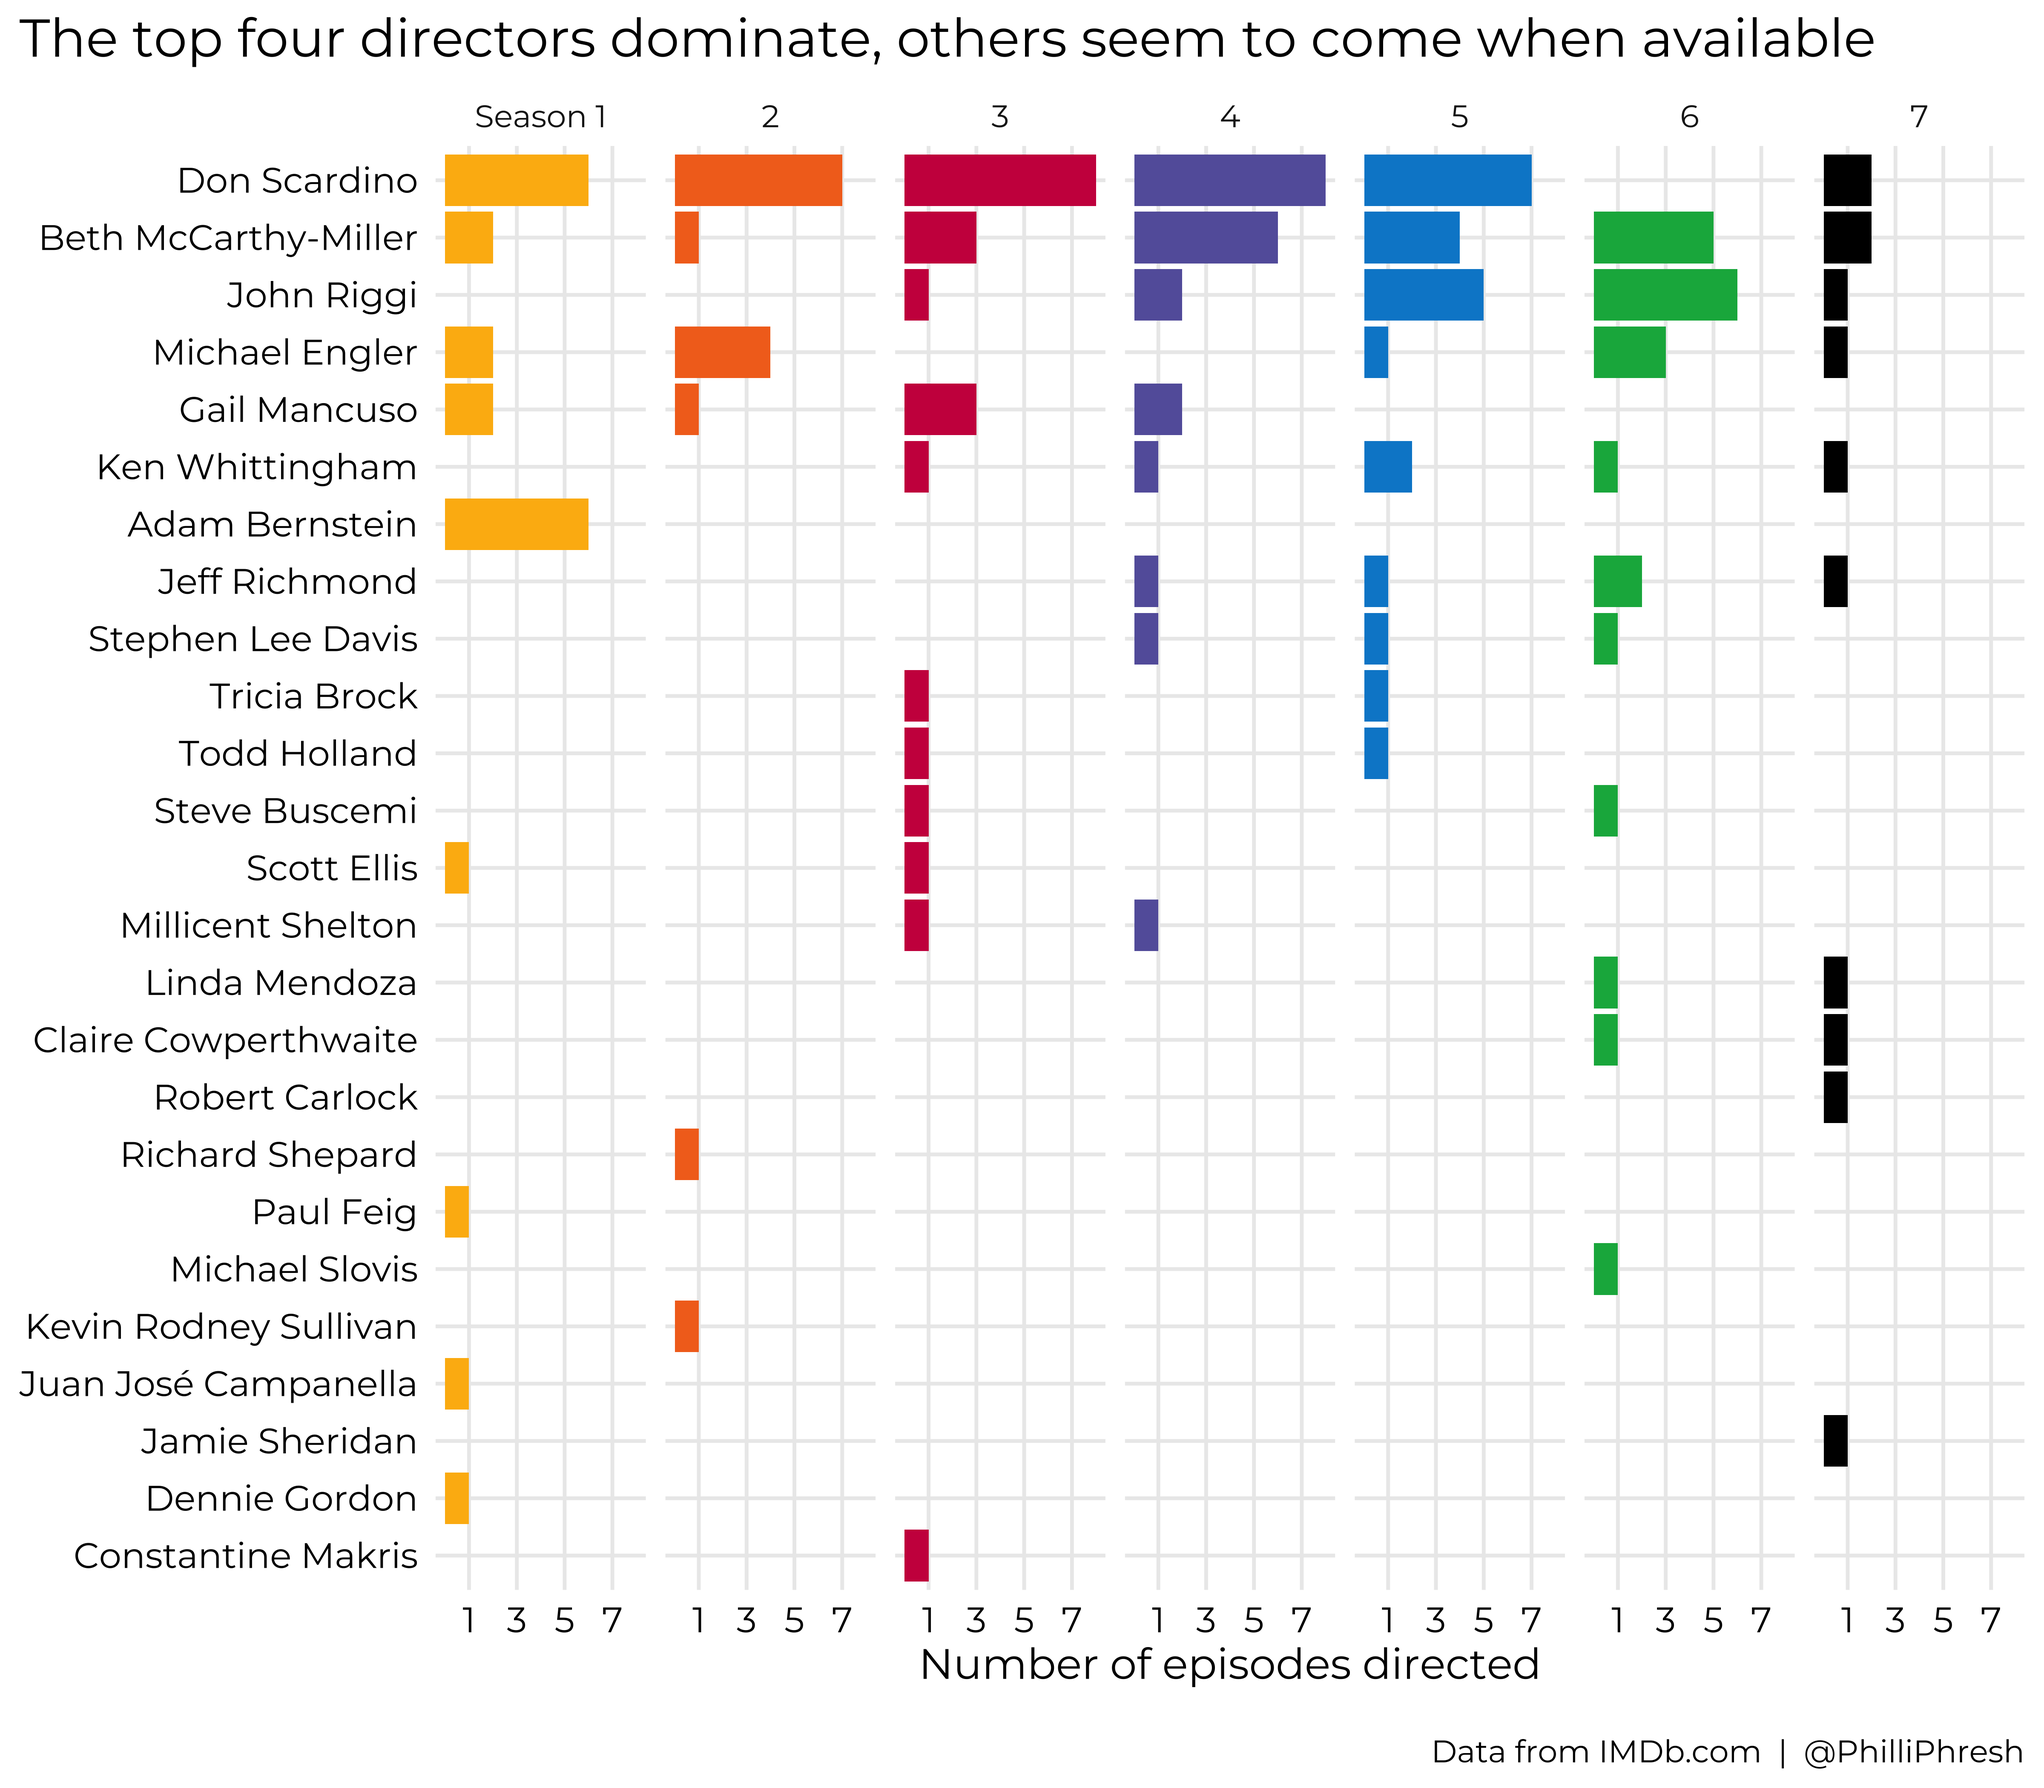
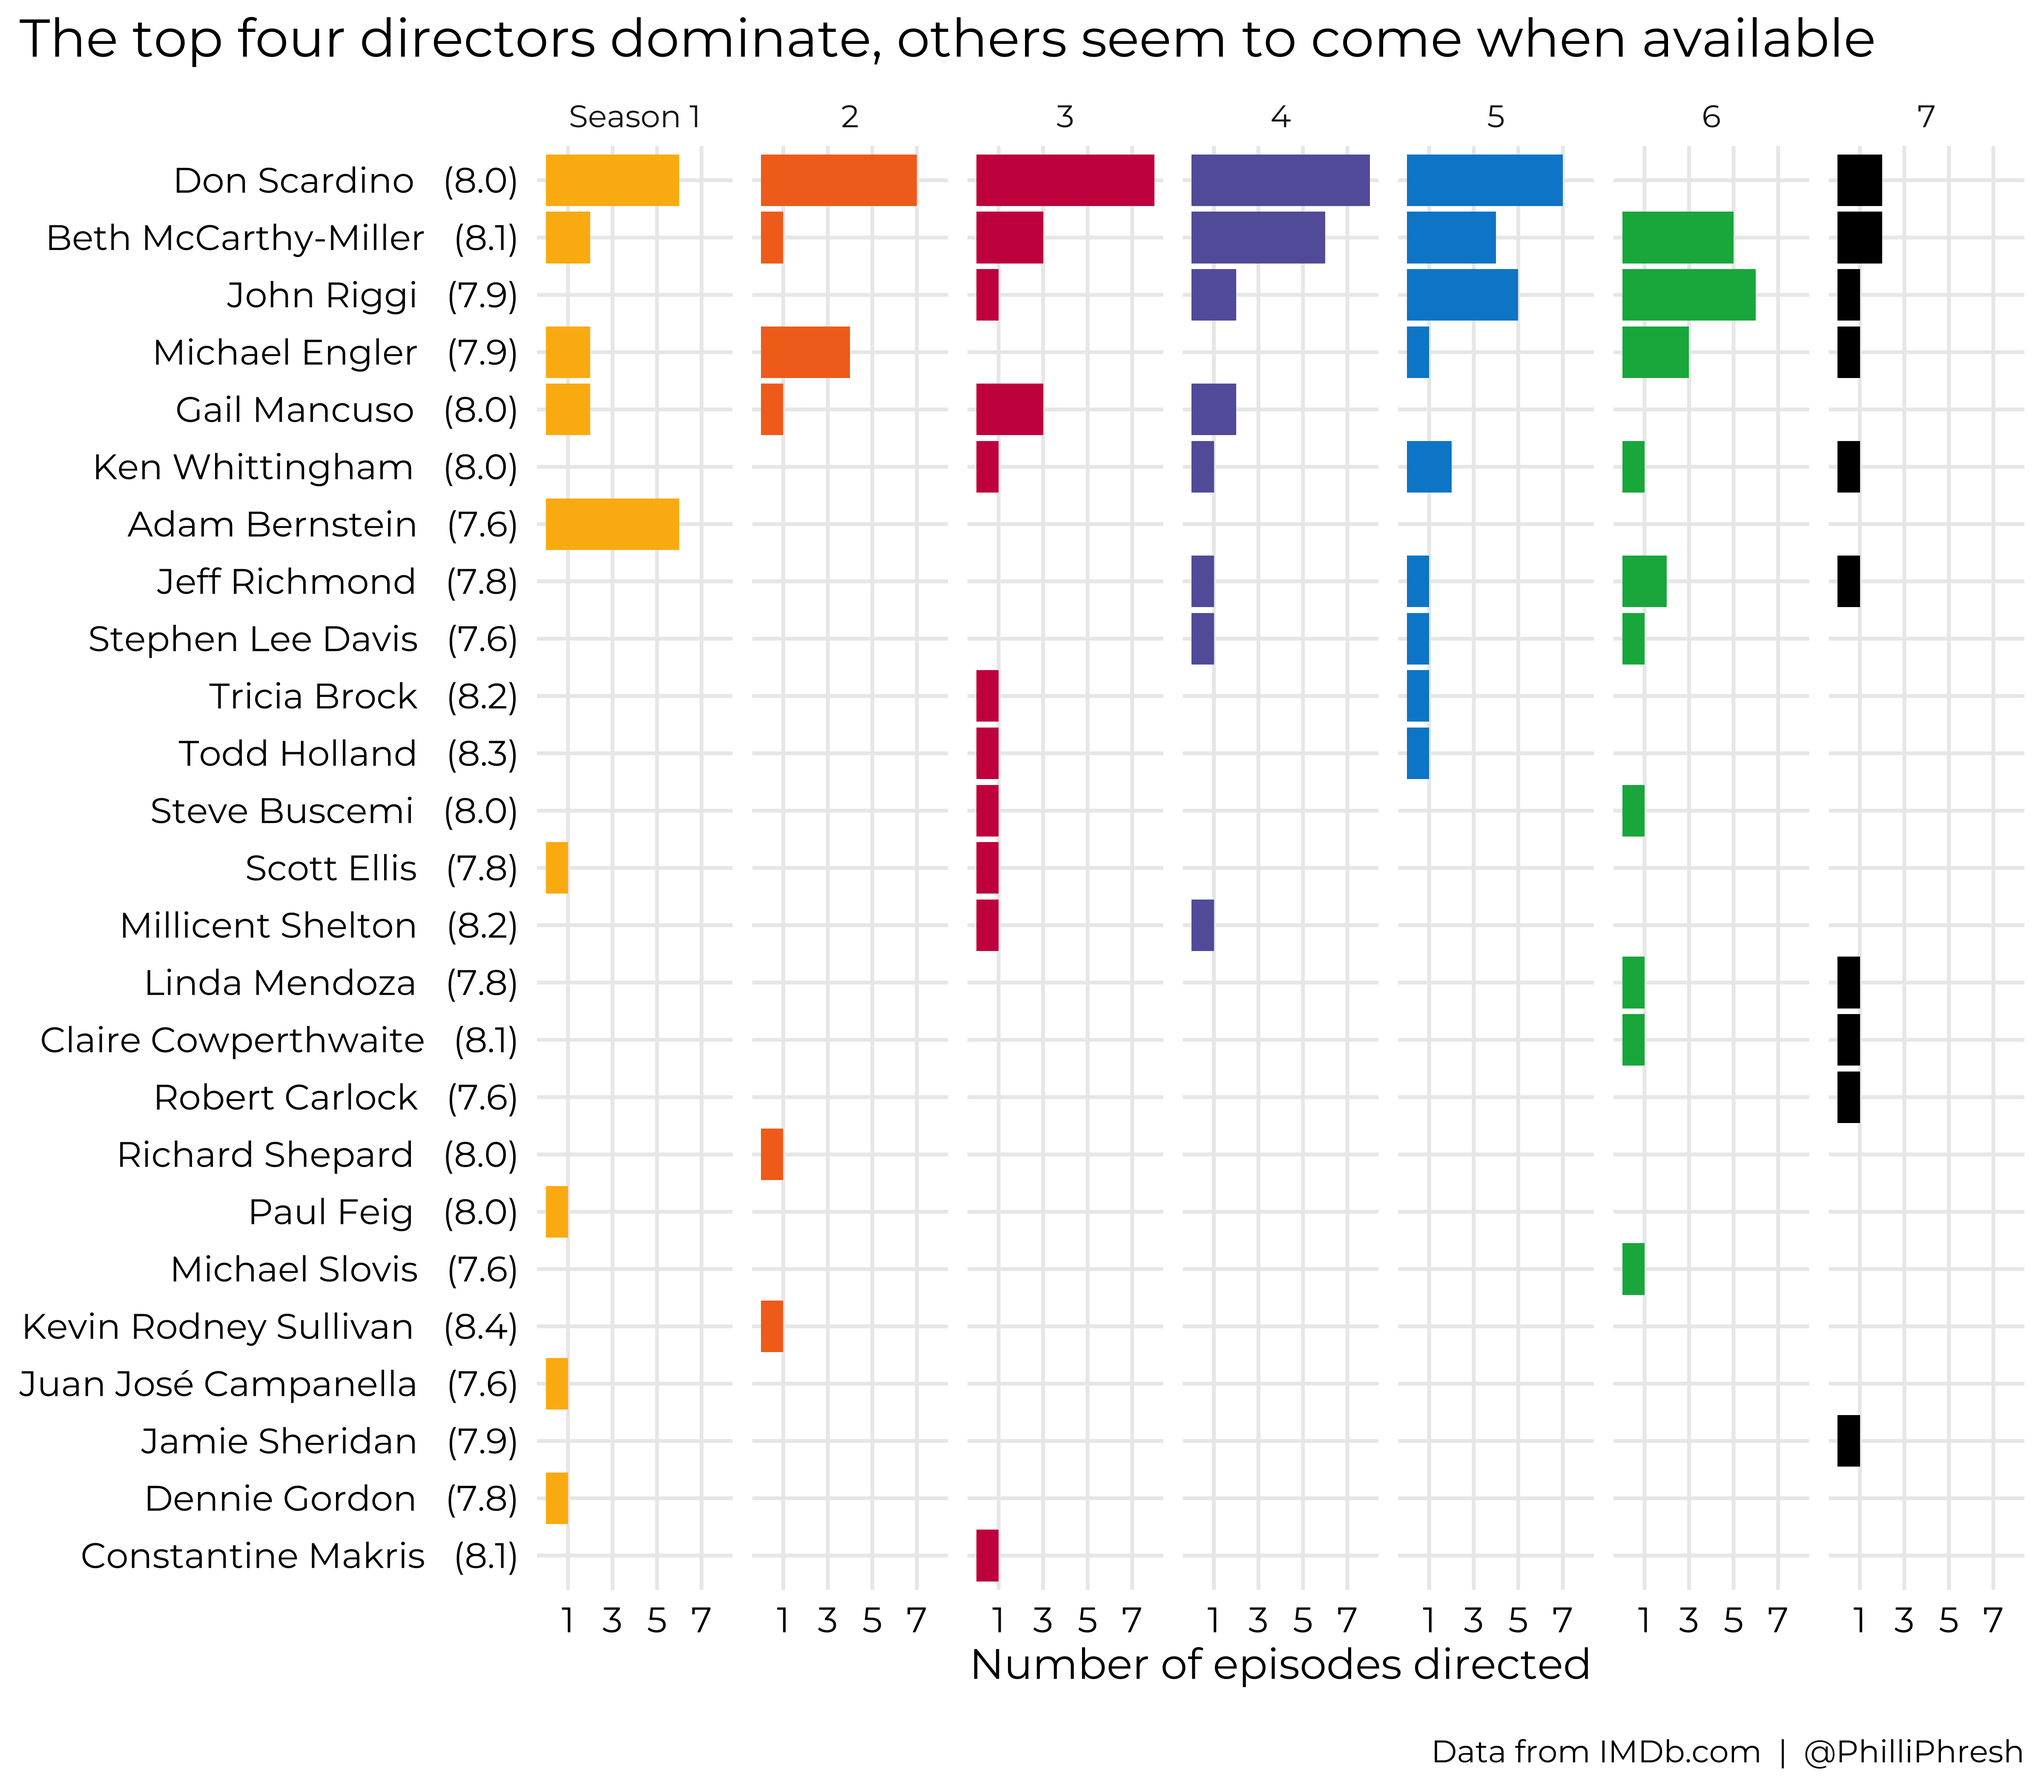
Added median IMDb ratings for writers and directors.

Changed region(s): [[0.0, 0.0624, 0.9375, 0.9357]]

diff --git a/README.md b/README.md
@@ -24,7 +24,7 @@ show.
 The ratings do seem to have an approximately normal distribution
 centered at eight stars. Something worth noting is that while IMDb
 ratings range from 0 to 10, I find episode ratings for various shows
-hover around 8 starts–perhaps there is some psychological reason for
+hover around 8 starts—perhaps there is some psychological reason for
 that, but unfortunately we have no way of knowing, medicine is not a
 science.
 
@@ -33,25 +33,26 @@ is easy to tell if certain seasons rate better than others. The next
 plot was made in an effort to make this more clear. Each dot represents
 an episode going in order of air date from left to right, colored by
 season, and sized by number of IMDb votes. The “notched” box plots show
-the 25th, 50th, and 75th percentiles of ratings for each season–if the
+the 25th, 50th, and 75th percentiles of ratings for each season—if the
 notches in different season’s boxes don’t overlap, it suggests the
 medians are significantly different.
 
 ![](README_files/figure-gfm/unnamed-chunk-3-1.png)<!-- -->
 
 Based on the notched box plots, season six had a significantly lower
-median rating than seasons two and three–perhaps that explains why
+median rating than seasons two and three—perhaps that explains why
 season seven is the last with only 12 episodes. NBC is quick to cancel
 non-cop shows when they’re not doing well.
 
 ## Prevalence of writers
 
 The plot below lists every writer of the show in order of total episodes
-written for the series. Please note, on the full cast and crew page for
-each episode, IMDb lists some people in the writing credits section as
-‘story editor’, ‘executive story editor’, etc., and it always lists Tina
-Fey as ‘created by’. The counts in the plot below only capture a writer
-if they are listed as ‘written by’.
+written for the series. The median IMDb rating for each writer’s
+episodes is listed beside their name. Please note, on the full cast and
+crew page for each episode, IMDb lists some people in the writing
+credits section as ‘story editor’, ‘executive story editor’, etc., and
+it always lists Tina Fey as ‘created by’. The counts in the plot below
+only capture a writer if they are listed as ‘written by’.
 
 ![](README_files/figure-gfm/unnamed-chunk-4-1.png)<!-- -->
 
@@ -59,7 +60,7 @@ Tina Fey clearly did not sleep, having had the highest number of
 episodes written (or tied for) in five out of seven seasons, all while
 staring in every episode. Robert Carlock wrote the second most total
 episodes for the show, which is fortunate because I love his writing
-style-quick, ridiculous, and too witty to keep up with sometimes. Tina
+style: quick, ridiculous, and too witty to keep up with sometimes. Tina
 Fey and Robert Carlock went on to co-create *The Unbreakable Kimmy
 Schmidt*, which would be another interesting show to analyze, bringing
 along a lot of 30 Rock writing alumna. Tracy Wigfield created the NBC
@@ -69,7 +70,9 @@ up here, but looks like he worked on the actual script for two episodes.
 
 ## Prevalence of directors
 
-I would like to see a similar plot of most common directors by season.
+The plot below lists every director of the show in order of total
+episodes directed for the series. The median IMDb rating for each
+director’s episodes is listed beside their name.
 
 ![](README_files/figure-gfm/unnamed-chunk-5-1.png)<!-- -->
 
@@ -78,5 +81,5 @@ Don Scardino in season one and then didn’t direct anymore. Jeff Richmond
 directed a number of later episodes, avid watchers may recognize his
 name as the composer for the series (or as Tina Fey’s husband in real
 life). I notice Robert Carlock, the second-most credited writer,
-directed an episode in the final season–I wonder if there is any other
+directed an episode in the final season—I wonder if there is any other
 writer/director overlap.
